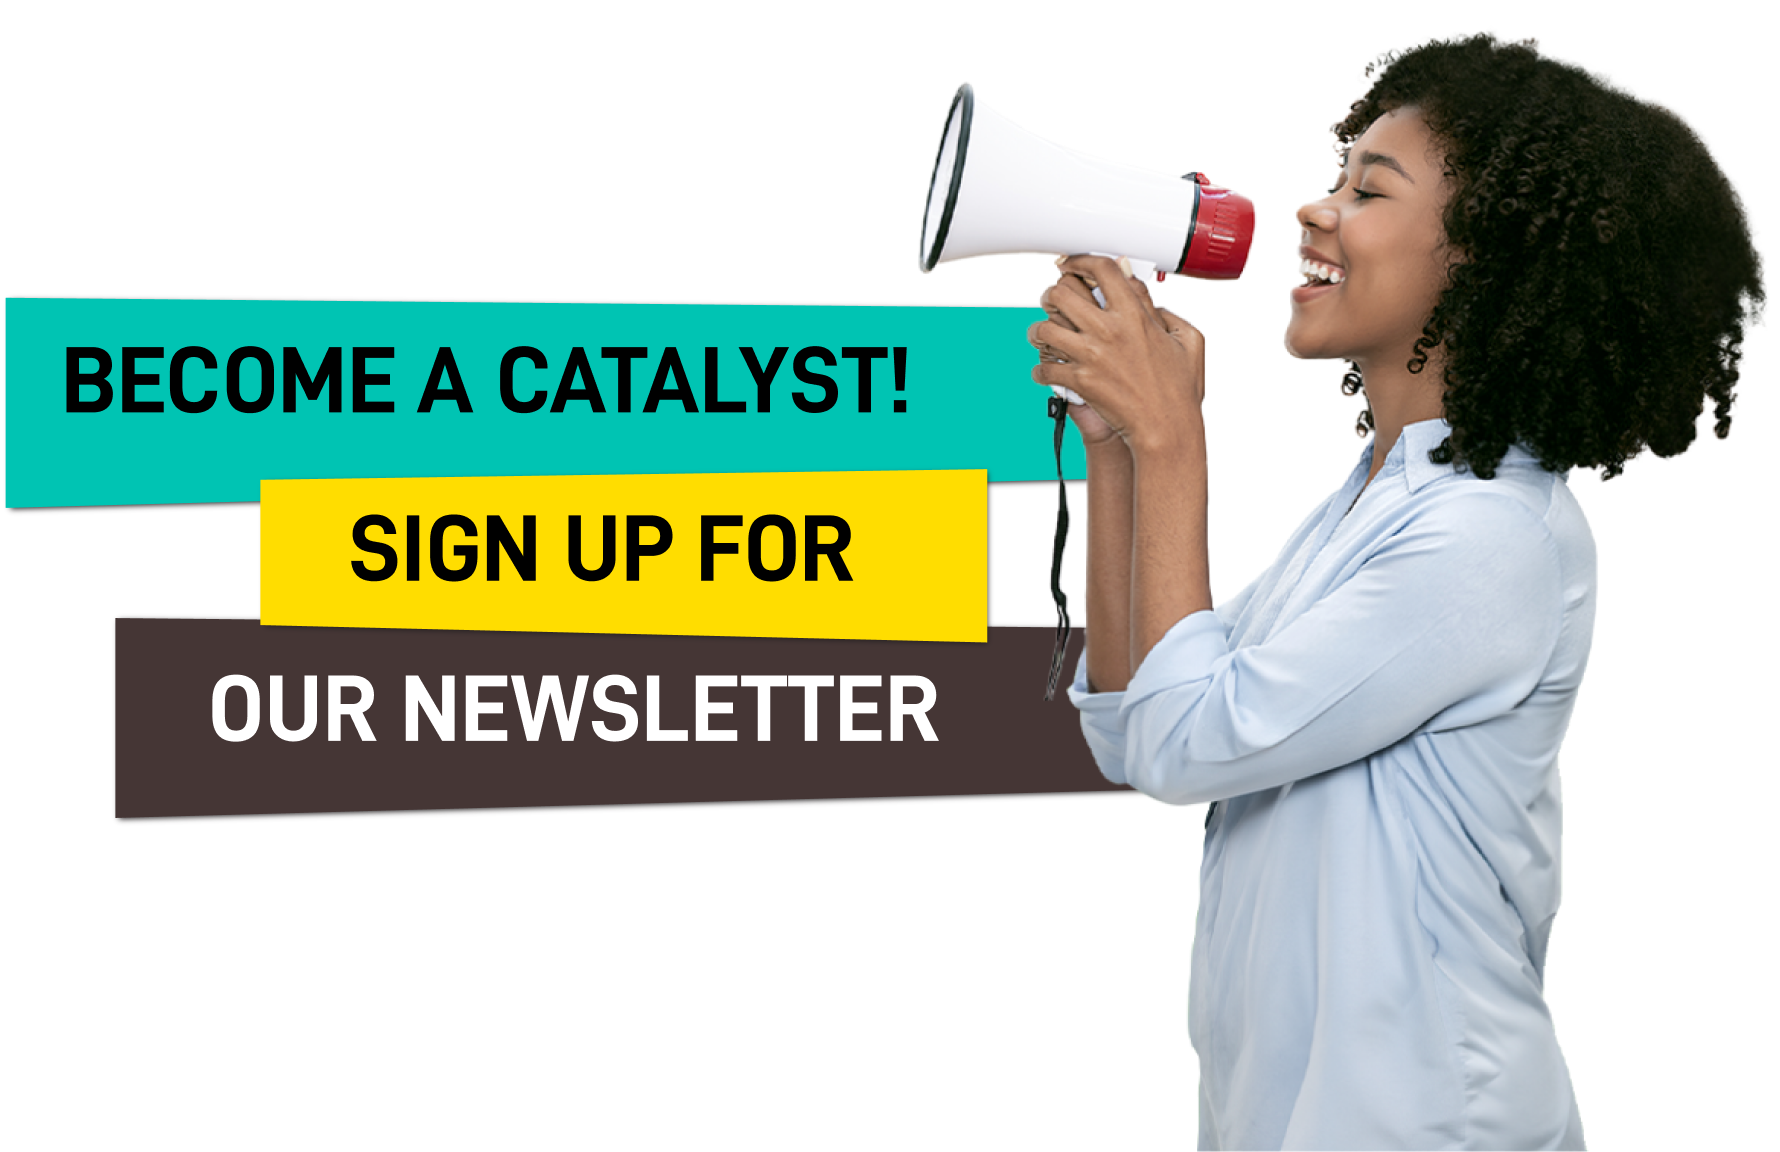
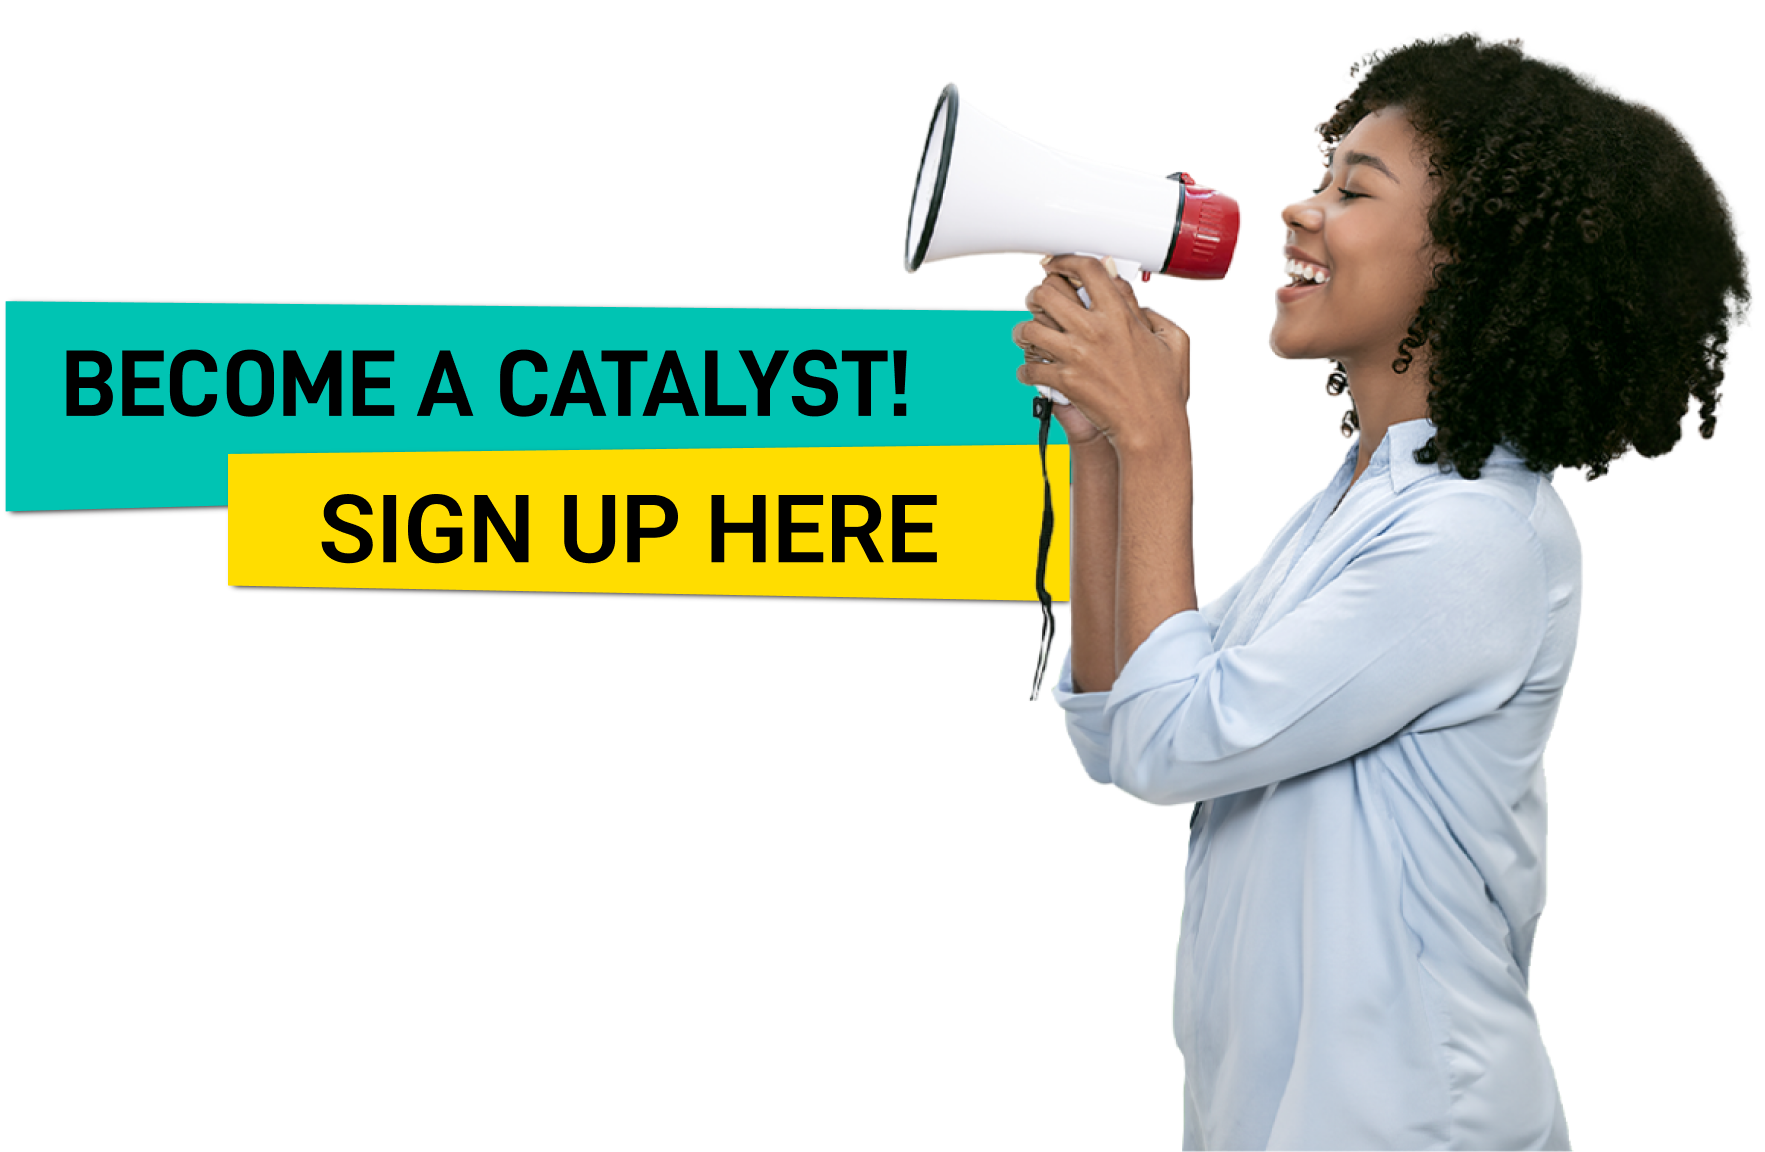
style:added media queries

diff --git a/src/components/TheLanding.vue b/src/components/TheLanding.vue
@@ -9,7 +9,12 @@
           <img
             src="@/assets/images/Catalyst.svg"
             alt="Title Image"
-            class="block relative px-4 py-2 z-10"
+            class="hidden md:block relative px-4 py-2 z-10"
+          />
+          <img
+            src="@/assets/images/Catalyst_sm.svg"
+            alt="Title Image"
+            class="block md:hidden relative px-4 py-2 z-10"
           />
         </div>
         <div class="flex 7xl:justify-center my-8">
@@ -45,7 +50,16 @@
         class="relative px-4 md:px-20 pb-10 flex flex-col justify-center bg-[url('@/assets/images/who-we-are-bg.png')] bg-cover bg-center"
       >
         <div class="">
-          <img src="@/assets/images/who-we-are.svg" alt="Title Image" class="block relative z-10" />
+          <img
+            src="@/assets/images/who-we-are.svg"
+            alt="Title Image"
+            class="hidden md:block relative z-10"
+          />
+          <img
+            src="@/assets/images/who-we-are-sm.svg"
+            alt="Title Image"
+            class="block md:hidden relative z-10"
+          />
         </div>
 
         <div class="h-full pt-10 py-8 md:py-24">
@@ -78,8 +92,13 @@
           <div class="container">
             <img
               src="@/assets/images/join_us_landing.svg"
-              alt="Title Image"
-              class="block max-w-full h-auto"
+              alt="Join Us Title"
+              class="hidden md:block max-w-full h-auto"
+            />
+            <img
+              src="@/assets/images/join_us_landing_sm.svg"
+              alt="Join Us Title"
+              class="block md:hidden max-w-full h-auto"
             />
           </div>
 
